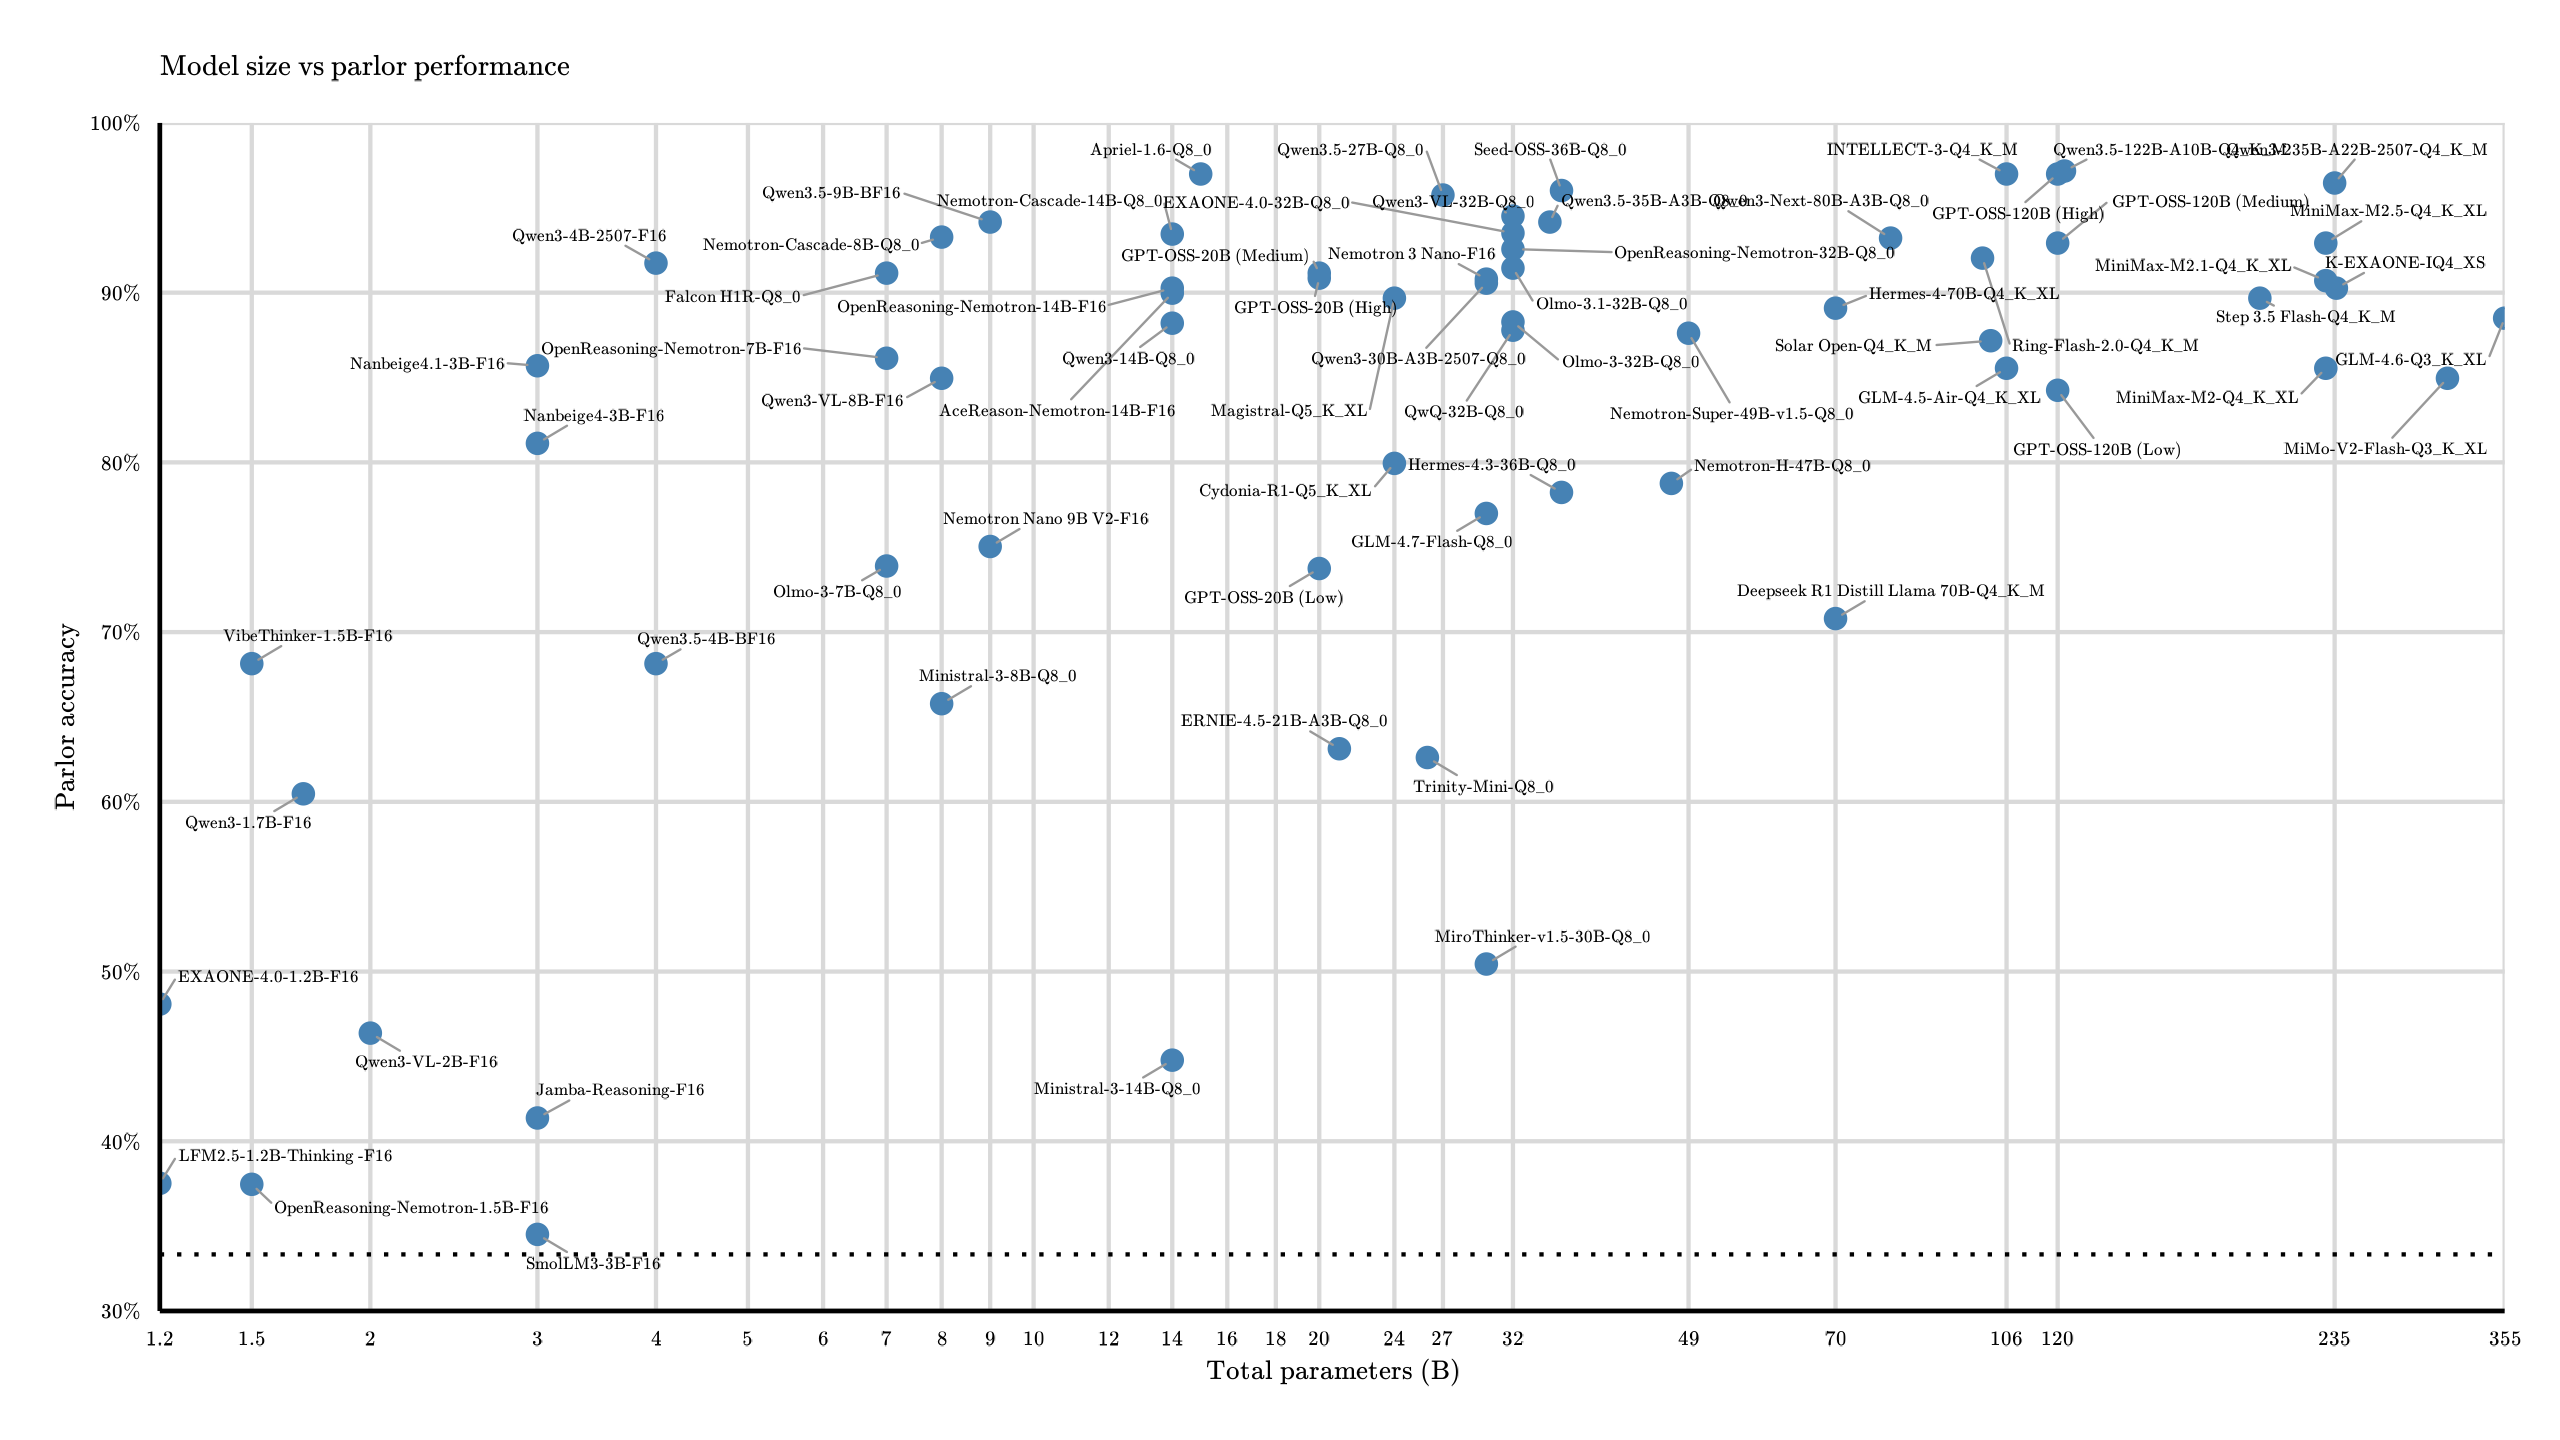
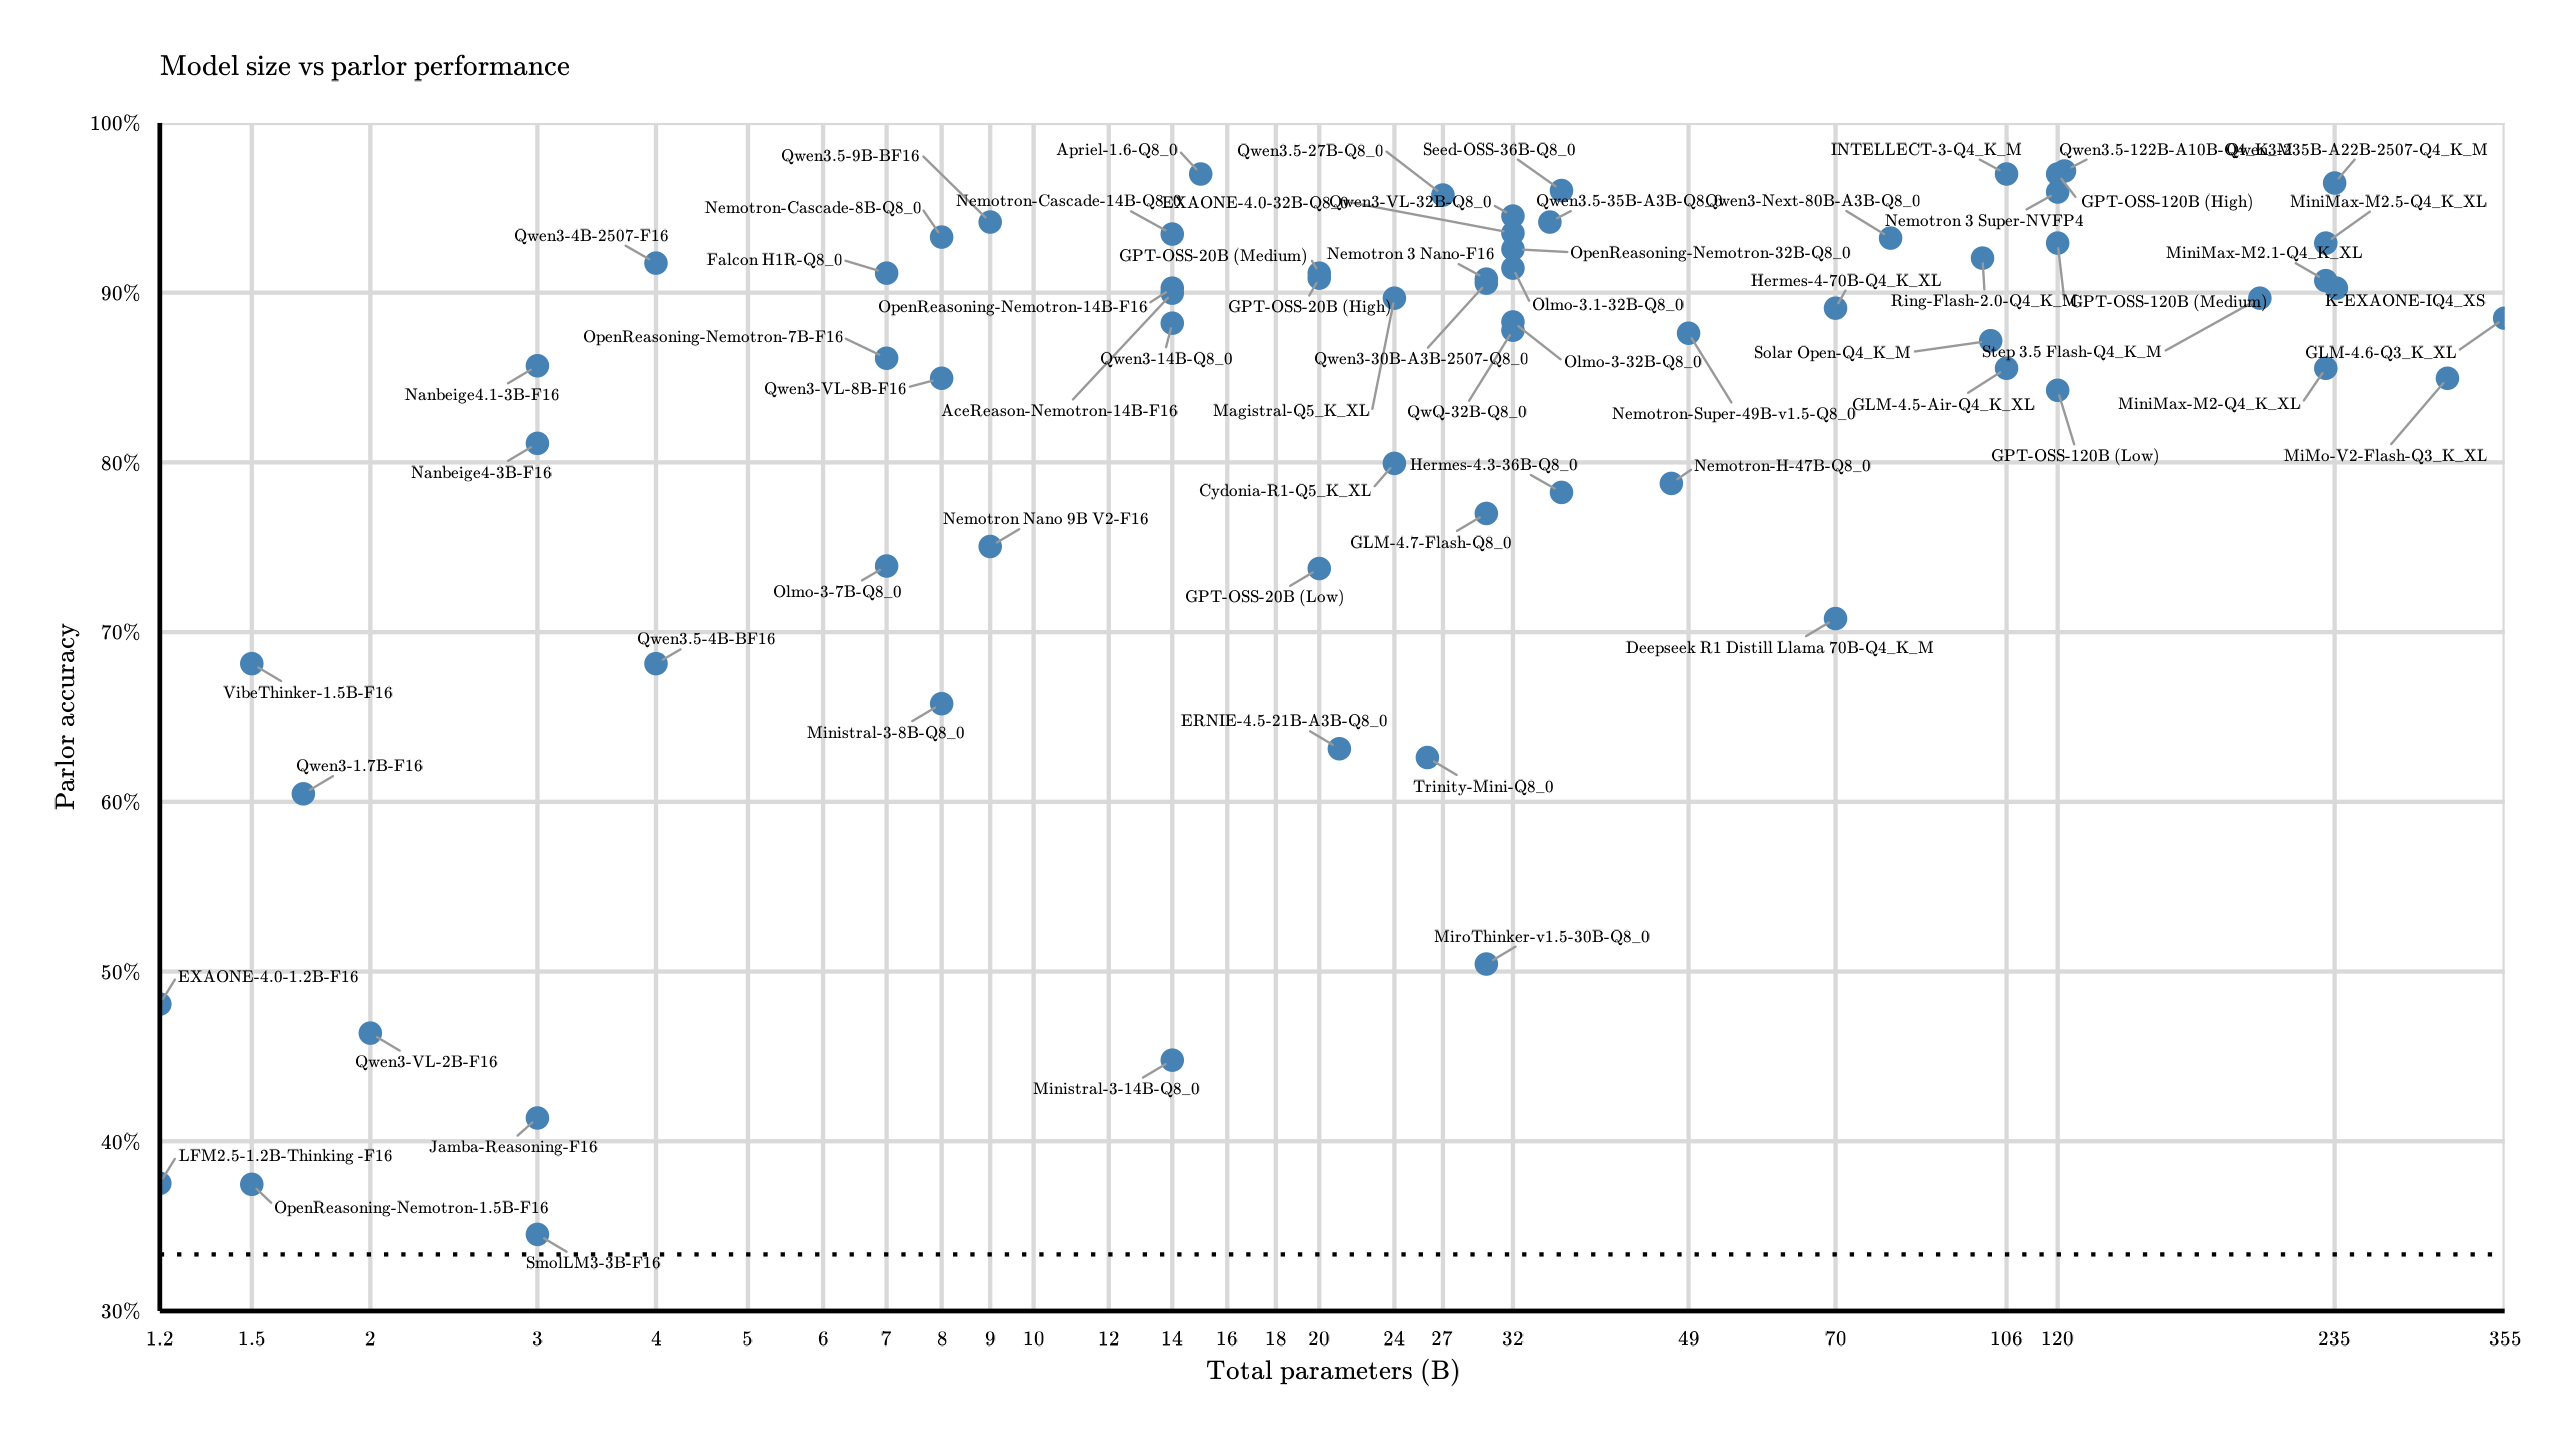
Parlor: Nemotron 3 Super

diff --git a/pages/parlor-reasoning.html b/pages/parlor-reasoning.html
@@ -44,7 +44,7 @@
         <div class="article-container">
             <header class="article-header">
                 <h1>Reasoning LLMs vs the Parlor Puzzle</h1>
-                <div class="meta">By BigStupidJellyfish | 2025-November-02 | Updated 2026-March-06</div>
+                <div class="meta">By BigStupidJellyfish | 2025-November-02 | Updated 2026-March-11</div>
             </header>
 <div class="article-content">
 
@@ -470,6 +470,22 @@
       <td>14657/13630 tokens</td>
     </tr>
 	<tr>
+      <td><a href="https://huggingface.co/nvidia/NVIDIA-Nemotron-3-Nano-30B-A3B-BF16">Nemotron 3 Nano</a></td>
+	  <td>30B</td>
+	  <td>BF16</td>
+      <td>113*10</td>
+      <td>90.8%</td> <!-- 1026/1130 -->
+      <td>6253/3803 tokens</td>
+    </tr>
+	<tr>
+      <td><a href="https://huggingface.co/unsloth/NVIDIA-Nemotron-3-Super-120B-A12B-NVFP4">Nemotron 3 Super</a></td>
+	  <td>120B</td>
+	  <td>NVFP4</td>
+      <td>113*5</td>
+      <td>95.9%</td> <!-- 542/565 -->
+      <td>3372/1988 tokens</td>
+    </tr>
+	<tr>
       <td><a href="https://huggingface.co/allenai/Olmo-3-7B-Think">Olmo-3-7B-Think</a></td>
 	  <td>7B</td>
 	  <td>Q8_0</td>
@@ -598,7 +614,7 @@
 <p>
 	Setting aside model size, we can also take a look at performance with respect to verbosity.
 	Ideally, we'd want a model in the top left: high accuracy, few tokens to get there.
-	GPT-OSS-120B most clearly occupies that spot.
+	GPT-OSS-120B most clearly occupies that spot, alongside Nemotron 3 Super.
 </p>
 <center><div class="figure">
 	<img src="images/parlor-reasoning/named_scatter_efficiency.png" width="100%"/>
@@ -1096,6 +1112,22 @@ Batch final 3: 43317
       <td>90.8%</td> <!-- 1026/1130 -->
       <td>6253/3803 tokens</td>
     </tr>
+		<tr>
+      <td><a href="https://huggingface.co/unsloth/NVIDIA-Nemotron-3-Super-120B-A12B-NVFP4">Nemotron 3 Super</a></td>
+	  <td>120B</td>
+	  <td>NVFP4</td>
+      <td>113*5</td>
+      <td>95.9%</td> <!-- 542/565 -->
+      <td>3372/1988 tokens</td>
+    </tr>
+	<!-- <tr>
+      <td><a href="https://huggingface.co/nvidia/NVIDIA-Nemotron-3-Super-120B-A12B-BF16">Nemotron 3 Super</a></td>
+	  <td>120B</td>
+	  <td>Q4_K_M</td>
+      <td>113*5</td>
+      <td>%</td>
+      <td>/ tokens</td>
+    </tr> -->
 	<tr>
       <td><a href="https://huggingface.co/nvidia/OpenReasoning-Nemotron-1.5B">OpenReasoning-Nemotron-1.5B</a></td>
 	  <td>1.5B</td>
@@ -1136,8 +1168,11 @@ Batch final 3: 43317
 	As seems to be typical, going above Q4 had no clear benefit.
 </p>
 <p>
-	The Nemotron Cascade model was most impressive: low token usage, decent score, and only 14B parameters.
+	The Nemotron Cascade models were impressive: low token usage, decent score, and only 8/14B parameters.
 	Its formatting was consistent, and never timed out.
+</p>
+<p>
+	The newer Nemotron 3 Super does quite well, with a strong score and very low token usage (as far as reasoning models go, at least).
 </p>
 
 <h3>Seed OSS 36B</h3>
@@ -1381,6 +1416,10 @@ Batch final 3: 43317
 	Even if you ignore cases where it got stuck in a loop, the 3.5 4B scored only ~83% on that subset.
 	Adjusting the model's presence penalty may move the numbers around a little, but not nearly enough to catch up.
 </p>
+<p>
+	Giving the 122B-A10B model 10 questions at a time, it scored 89% with 1630 average tokens per problem.
+	Apparently, its reasoning "effort" doesn't scale up as well as GPT-OSS-120B's did.
+</p>
 <h3>Distills</h3>
 <p>
 	I also tested <a href="https://huggingface.co/Liontix/Qwen3-4B-Thinking-2507-Gemini-2.5-Pro-Distill">this "Gemini 2.5 Pro distill" of Qwen3-4B</a>.
@@ -1394,6 +1433,12 @@ Batch final 3: 43317
 	For another example with a different base, this <a href="https://huggingface.co/DavidAU/Llama3.3-8B-Instruct-Thinking-Claude-4.5-Opus-High-Reasoning">Llama3.3 8B finetune with "Claude 4.5 Opus High Reasoning" data</a> was even worse: ~25% score after letting it run each question 5 times.
 	Completely incompetent.
 	Though the poor "example" prompts on that page should also have warned you that something's up.
+</p>
+<p>
+	<a href="https://huggingface.co/Jackrong/Qwen3.5-27B-Claude-4.6-Opus-Reasoning-Distilled-GGUF">This "Claude 4.6 Opus"</a> distill of a stronger base (Qwen3.5 27B), while not as catastrophic as the above cases, still manages to significantly damage the original model's capabilities.
+	It scored 198/339, or 58.4%.
+	Impressive, really, figuring out a way to make Qwen3.5 27B worse than Qwen3 1.7B (at least on this test).
+	I still don't understand how anyone could fall for these; everything about the model's description points towards it being untrustworthy.
 </p>
 <span class="anchor" id="conclusion"></span>
 <h2>Conclusion and notes<sup><small><a href="#conclusion">&#35;</a></small></sup></h2>
@@ -1443,6 +1488,8 @@ Batch final 3: 43317
 <p>
 	I slightly adjusted one parlor puzzle which, under a certain set of assumptions, would be ambiguous.
 	All responses used a basic automatic detection followed by manual review to ensure all scores are correct.
+	Almost all models were tested using llama.cpp.
+	NVFP4 models were ran using vLLM.
 </p>
 <p>
 	Ultimately, you should consider playing <a href="https://store.steampowered.com/app/1569580/Blue_Prince/">Blue Prince</a>.
